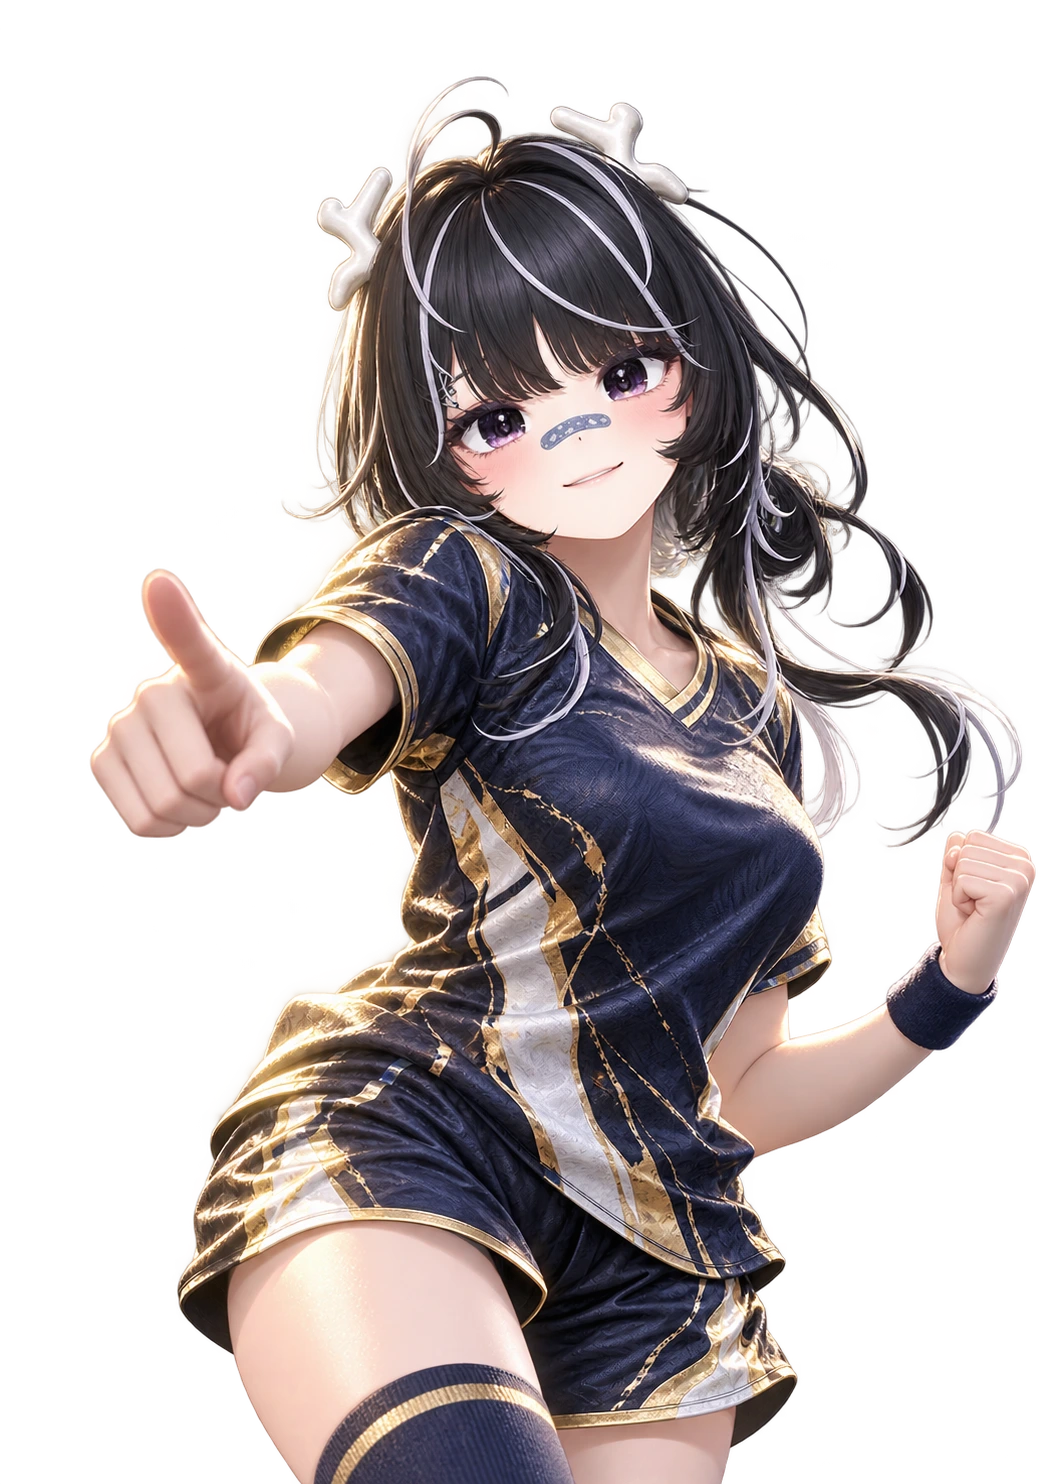
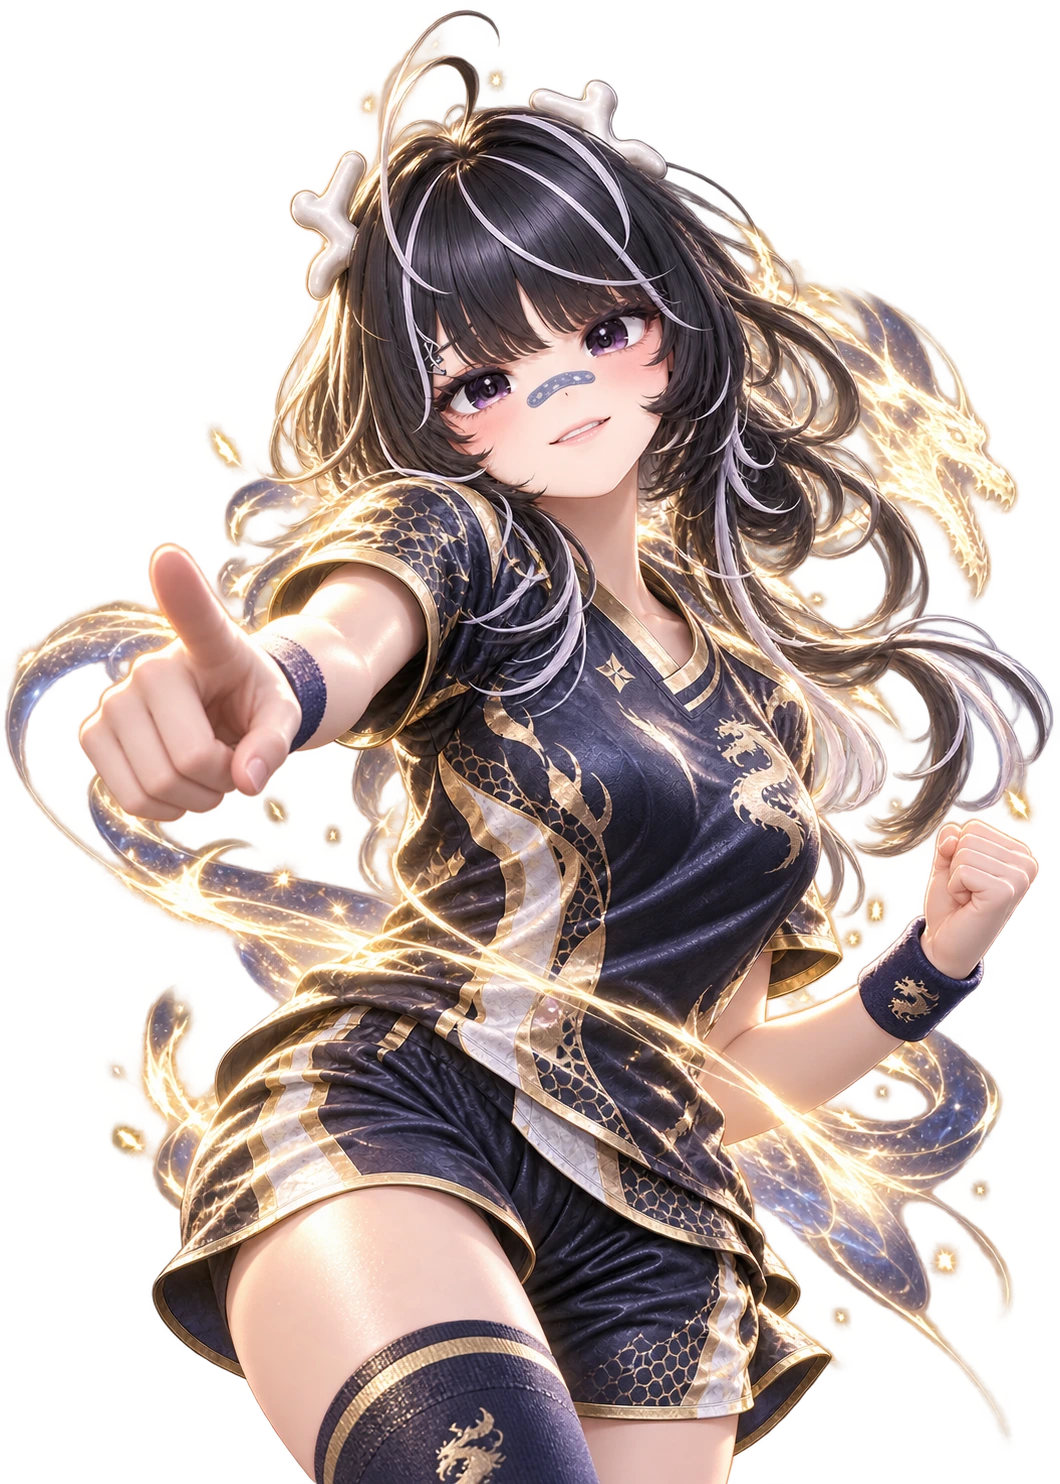
feat: replace 3d cards

diff --git a/src/web/toty-card/totyCardTheme.ts b/src/web/toty-card/totyCardTheme.ts
@@ -5,7 +5,7 @@
 // (--text-outline in toty-card.css) so they stay legible over any part of
 // the busy card art.
 const TOTY_CARD_TEXT_THEME: Record<string, { color: string; glow: string }> = {
-  hachi97: { color: "#ffdd7a", glow: "#fff6d2" }, // gold + sapphire crystal
+  hachi97: { color: "#ffe29e", glow: "#d9b3ff" }, // gold dragon + amethyst dragon-fire (special remake)
   tdnlamuron: { color: "#ffb454", glow: "#ffe3ad" }, // apricot-orange lava/ember
   ju010228: { color: "#d9f27a", glow: "#f3ffe0" }, // lime-green spring vine
   doormomo: { color: "#c9a6ff", glow: "#f0e6ff" }, // violet rune/arcane energy
